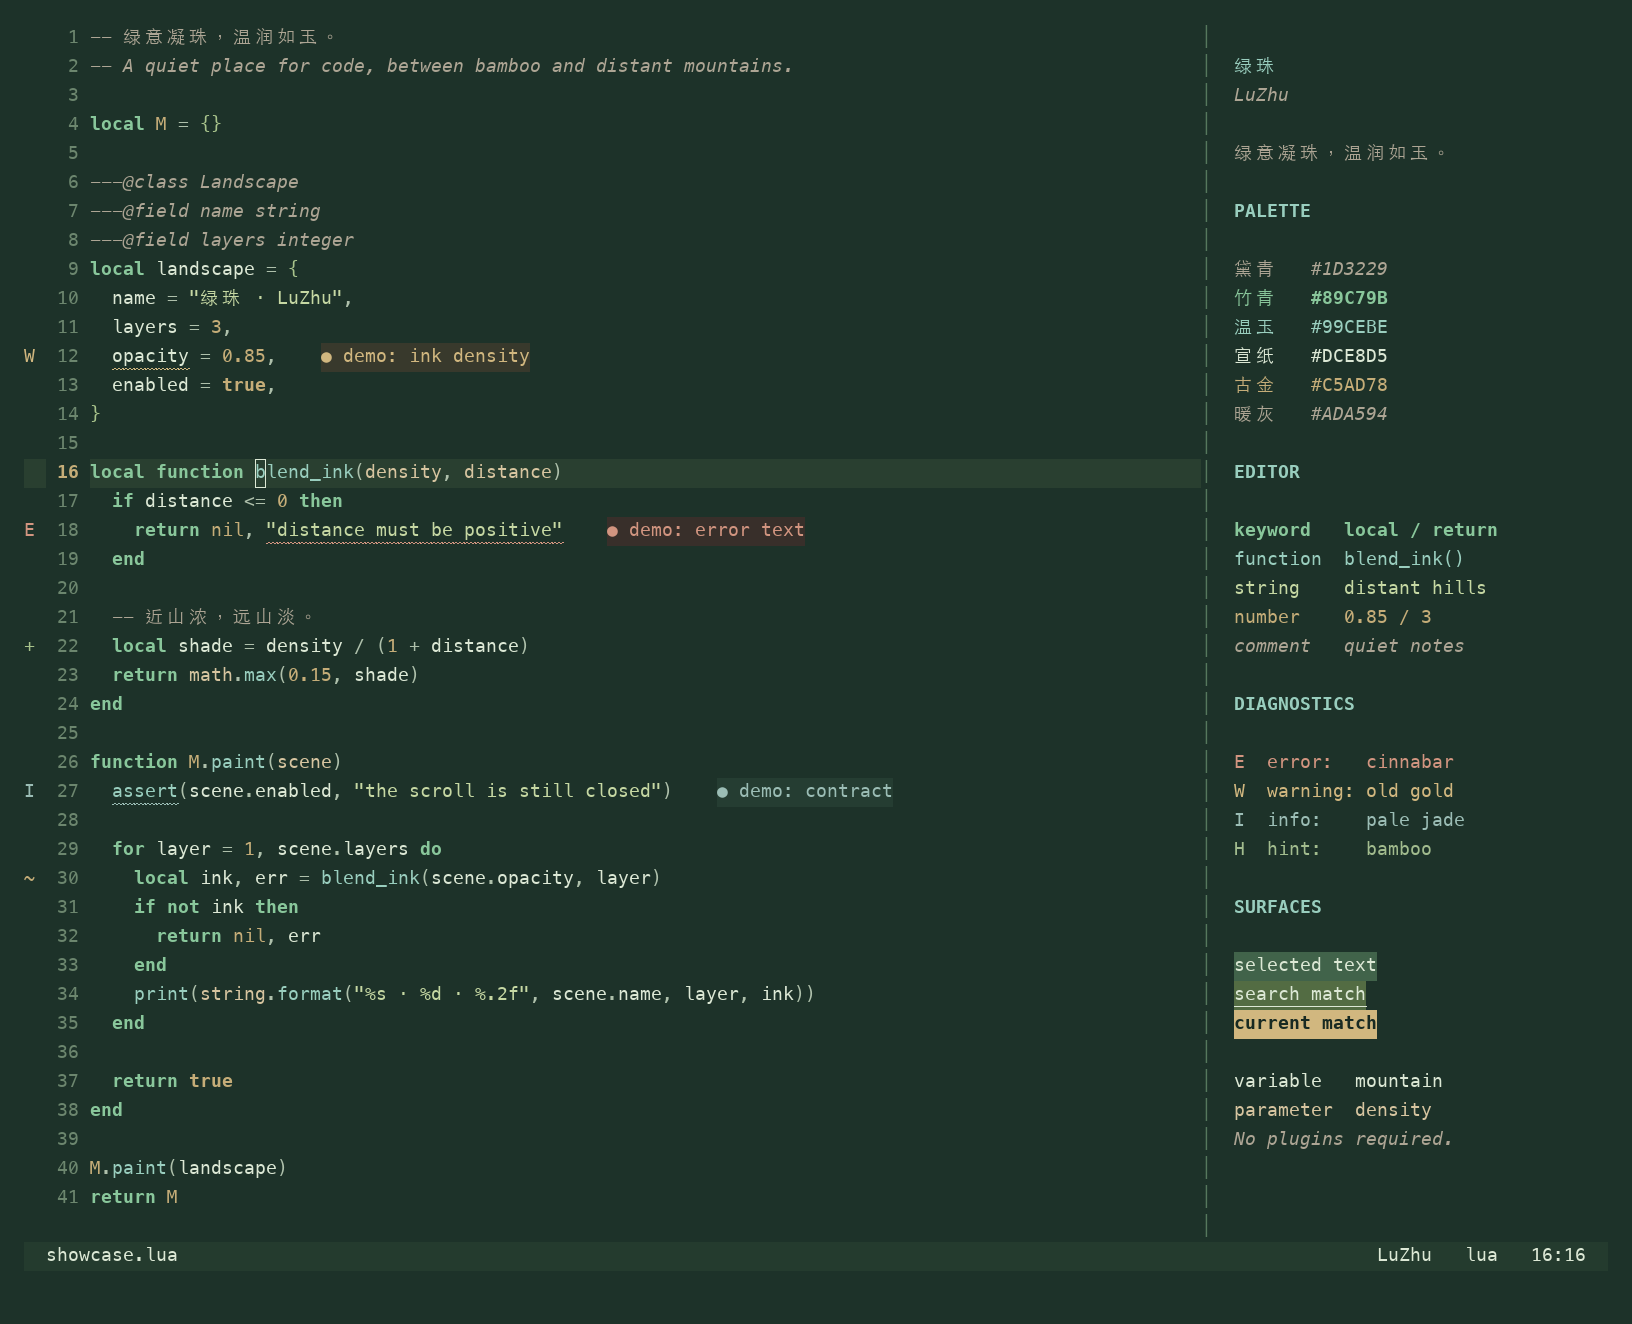
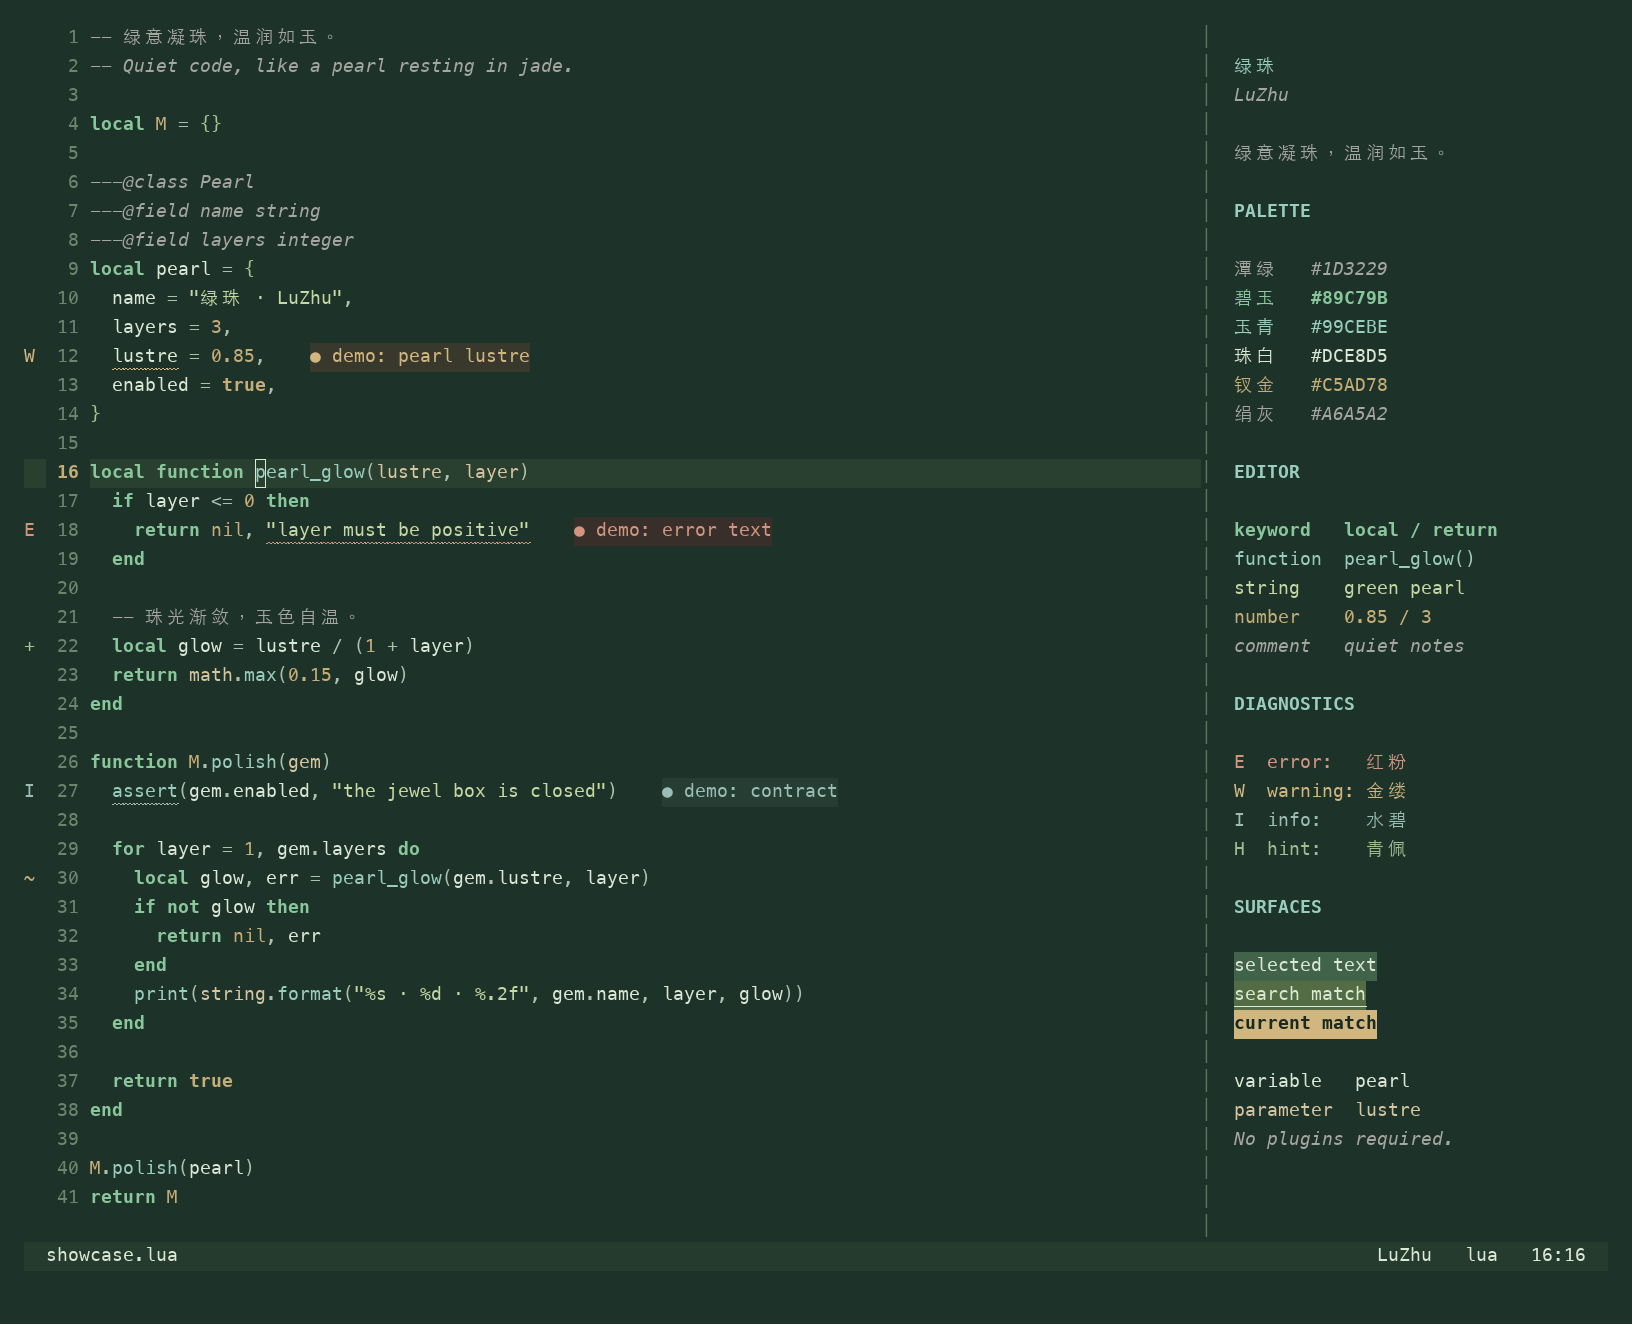
feat: refine LuZhu color names and neutralize comments

diff --git a/README.md b/README.md
@@ -4,13 +4,13 @@
 
 > 君不见绿珠潭水流东海，绿珠红粉沉光彩。
 
-绿珠，既取中国古代美人之名，也寄寓绿意凝成珍宝的温润与珍贵。以低饱和松绿、温玉与宣纸色，呈现安静清晰的 Neovim 深色主题。
+绿珠，既取中国古代美人之名，也寄寓绿意凝成珍宝的温润与珍贵。以低饱和潭绿、玉青与珠白，呈现安静清晰的 Neovim 深色主题。
 
 ![绿珠预览](assets/luzhu.png)
 
 需要 **Neovim 0.10+** 与支持真彩色的终端，无插件依赖。
 
-- 注释暖灰斜体，变量明亮，关键字竹青加粗。
+- 绢灰注释斜体，珠白变量明亮，碧玉关键字加粗。
 - 支持 Treesitter、LSP 语义高亮、诊断、diff 与终端色。
 - 适配 Telescope、nvim-cmp、blink.cmp、Neo-tree、nvim-tree、which-key、gitsigns 等插件。
 - 支持透明背景、非活动窗口变暗与高亮覆盖。
@@ -76,14 +76,29 @@ require("luzhu").setup({
 
 ## 色彩
 
-| 角色          | 色值                  |
-| ------------- | --------------------- |
-| 背景 / 正文   | `#1D3229` / `#DCE8D5` |
-| 注释 / 关键字 | `#ADA594` / `#89C79B` |
-| 函数 / 参数   | `#99CEBE` / `#D7C5A0` |
-| 字符串 / 数字 | `#C6D8A3` / `#C5AD78` |
+取潭水的深静、珠玉的温润与罗绢钗饰的光泽，为每种颜色赋予与绿珠相衬的名字。
 
-松绿背景与竹青关键字强化青绿气息；明亮变量、暖灰注释、冷玉函数与浅沙参数拉开层级，字体样式作为辅助。完整色板见 [palette.lua](lua/luzhu/palette.lua)。
+| 名称 | 角色 | 色值 |
+| --- | --- | --- |
+| 潭绿 | 正文背景 | `#1D3229` |
+| 深潭 | 深层背景 | `#182A22` |
+| 碧潭 | 浮层背景 | `#243B2E` |
+| 翠影 | 当前行 | `#293F30` |
+| 翠帷 | 选区 | `#41634A` |
+| 珠白 | 正文与变量 | `#DCE8D5` |
+| 绢灰 | 注释 | `#A6A5A2` |
+| 碧玉 | 关键字 | `#89C79B` |
+| 玉青 | 函数 | `#99CEBE` |
+| 绢黄 | 参数 | `#D7C5A0` |
+| 柳芽 | 类型 | `#A8C38B` |
+| 碧绫 | 字符串 | `#C6D8A3` |
+| 钗金 | 数字与常量 | `#C5AD78` |
+| 红粉 | 错误 | `#D29580` |
+| 金缕 | 警告 | `#D1B77F` |
+| 水碧 | 信息 | `#9BBDB5` |
+| 青佩 | 提示 | `#A2BC8E` |
+
+潭绿衬珠白，绢灰收敛注释，碧玉点明关键字；玉青函数、绢黄参数与碧绫字符串各有层次，钗金与红粉作少量点染。完整色板与配置键见 [palette.lua](lua/luzhu/palette.lua)。
 
 ## 其他配色
 

diff --git a/extras/README.md b/extras/README.md
@@ -46,7 +46,7 @@ wezterm.add_to_config_reload_watch_list(
 
 监听配色文件后，更新同名 TOML 也会触发重载。首次加入监听时保存 WezTerm 配置；亦可手动重载配置。
 
-原生拖选使用浅玉底 `jade`、深墨字 `bg_dark`，与 Neovim 的苔绿选区分开。tmux 开启鼠标时普通拖选由其 copy mode 接管；按住 Shift 可使用 WezTerm 原生选区。
+原生拖选使用玉青底 `jade`、深潭字 `bg_dark`，与 Neovim 的翠帷选区分开。tmux 开启鼠标时普通拖选由其 copy mode 接管；按住 Shift 可使用 WezTerm 原生选区。
 
 ## tmux
 
@@ -62,7 +62,7 @@ source-file ~/.config/tmux/themes/luzhu.conf
 tmux source-file ~/.tmux.conf
 ```
 
-copy mode 同样采用浅玉底、深墨字。主题文件仅提供样式，窗口选择器与快捷键由个人 tmux 配置维护。
+copy mode 同样采用玉青底、深潭字。主题文件仅提供样式，窗口选择器与快捷键由个人 tmux 配置维护。
 
 ## fzf
 
@@ -100,7 +100,7 @@ export FZF_DEFAULT_OPTS="${FZF_DEFAULT_OPTS:-} --color=$FZF_THEME_COLOR"
 
 打开 `~/.config/alfred/themes/LuZhu Dark Large.alfredappearance` 导入，再在 Alfred 外观设置中选择 `LuZhu Dark Large`。
 
-不透明黛青深色配色：搜索区采用浮层青绿，选中项使用苔绿。主题 UUID 保持稳定，重新导出或更名时沿用同一身份。
+不透明潭绿深色配色：搜索区采用碧潭，选中项使用翠帷。主题 UUID 保持稳定，重新导出或更名时沿用同一身份。
 
 `alfred/luzhu.plist` 提供浅色、深色选择均指向该 UUID 的配置数据，供个人配置工具使用；导入外观无需覆盖 Alfred 的整份偏好设置。应用自动切换脚本由个人 Alfred 配置目录维护。
 

diff --git a/CONTRIBUTING.md b/CONTRIBUTING.md
@@ -1,6 +1,6 @@
 # 贡献与维护
 
-感谢共同打磨绿珠。设计目标是长期阅读代码时的清晰与安静：低饱和青绿背景、可辨的注释与语法层级、少量古金与朱砂。色彩调整应同时检查普通代码、文档注释、诊断、选区和 diff。
+感谢共同打磨绿珠。设计目标是长期阅读代码时的清晰与安静：低饱和青绿背景、可辨的注释与语法层级、少量钗金与红粉。色彩调整应同时检查普通代码、文档注释、诊断、选区和 diff。
 
 ## 环境
 
@@ -16,7 +16,7 @@
 3. 执行下方检查，再用 `nvim -u scripts/preview.lua` 观察实际效果。运行 `uv run scripts/screenshot.py` 更新 `assets/luzhu.png`，查看图片确认没有文字裁切、错误高亮或色板漂移。
 4. 更新 README 中的颜色、语义映射和 CHANGELOG；`python3 scripts/export.py --check` 应无差异。
 
-注释使用暖灰以区别青绿关键字，变量使用更明亮的宣纸色。不要以降低注释可读性换取层级。`tests/run.lua` 对默认主要文字执行相对亮度对比度检查，这只是配色约束，不代表完整无障碍认证。
+注释使用绢灰以区别碧玉关键字，变量使用更明亮的珠白色。不要以降低注释可读性换取层级。`tests/run.lua` 对默认主要文字执行相对亮度对比度检查，这只是配色约束，不代表完整无障碍认证。
 
 原生语法未必识别参数；Treesitter/LSP 识别时将其链接到 `LuZhuParameter`。bat 按 `variable.parameter` scope 处理；slides 的 Chroma token 不提供独立参数角色时使用普通变量色。保持各工具在其能力范围内语义一致。
 

diff --git a/CHANGELOG.md b/CHANGELOG.md
@@ -10,12 +10,16 @@
 
 ### 优化
 
+- 绢灰注释由 `#ADA594` 调整为近中性的 `#A6A5A2`，减弱黄褐感，保持原有亮度与对比度层级。
+
+- 色彩展示名统一为潭绿、珠白、绢灰、碧玉、玉青、钗金、红粉等绿珠意象，同步文档、色板注释、预览与示例；色值和公开配置键保持兼容。
+
 - 主题更名为“绿珠”／`LuZhu.nvim`，取古代美人之名与珍宝之意；模块、文档与所有原生导出同步更名。
 
-- 背景调整为松绿，关键字增强竹绿色相；提亮变量，保留暖灰注释，以冷玉函数、浅沙参数和竹黄字符串拉开代码层级。
+- 背景调整为潭绿，关键字增强碧玉色相；提亮变量，保留绢灰注释，以玉青函数、绢黄参数和碧绫字符串拉开代码层级。
 - 仓库名称统一为大小写敏感的 `LuZhu.nvim`，运行时使用小写 `luzhu`。
-- 注释使用暖灰斜体，变量保持宣纸色，关键字使用竹青粗体，函数参数使用浅沙色。
-- WezTerm 与 tmux 选区采用浅玉底、深墨字，提高复制范围的辨识度。
+- 注释使用绢灰斜体，变量保持珠白色，关键字使用碧玉粗体，函数参数使用绢黄色。
+- WezTerm 与 tmux 选区采用玉青底、深潭字，提高复制范围的辨识度。
 - fzf 配色区分列表的浮层背景与预览的正文背景。
 - Alfred 外观命名为 `LuZhu Dark Large`，保留原有 UUID 与深色配色。
 - 明确仓库仅维护主题与配色导出；个人配置安装、统一切换、Alfred 自动化、tmux 选择器及对应测试迁至各自配置目录。

diff --git a/AGENTS.md b/AGENTS.md
@@ -2,8 +2,9 @@
 
 - 中文名为“绿珠”，取古代美人之名与珍宝之意。
 - 仓库名为 `LuZhu.nvim`，模块与 colorscheme 为 `luzhu`；兼容 Neovim 0.10+。
+- 颜色命名围绕潭水、珠玉、罗绢与钗饰；中文名称以 `palette.lua` 注释为准。
 - 颜色只定义在 `lua/luzhu/palette.lua`，高亮与链接在 `theme.lua`，公开选项在 `init.lua`。
-- 保持暖灰注释、明亮变量、竹青关键字的层级；默认正文在普通、浮层、当前行背景上的对比度至少 4.5:1。
+- 保持绢灰注释、珠白变量、碧玉关键字的层级；默认正文在普通、浮层、当前行背景上的对比度至少 4.5:1。
 - 基础语法、Treesitter、LSP 使用一致角色；链接有目标且无循环，加载可重复且不依赖插件。
 - 修改色板或原生格式时，按 [CONTRIBUTING.md](CONTRIBUTING.md) 重新导出并检查所有工具的语义与背景一致性；`extras/` 除 README 外均为生成文件。Alfred UUID seed 保持稳定。
 - 修改公开行为时同步 README 与 `doc/luzhu.txt`；导入说明位于 [extras/README.md](extras/README.md)。
